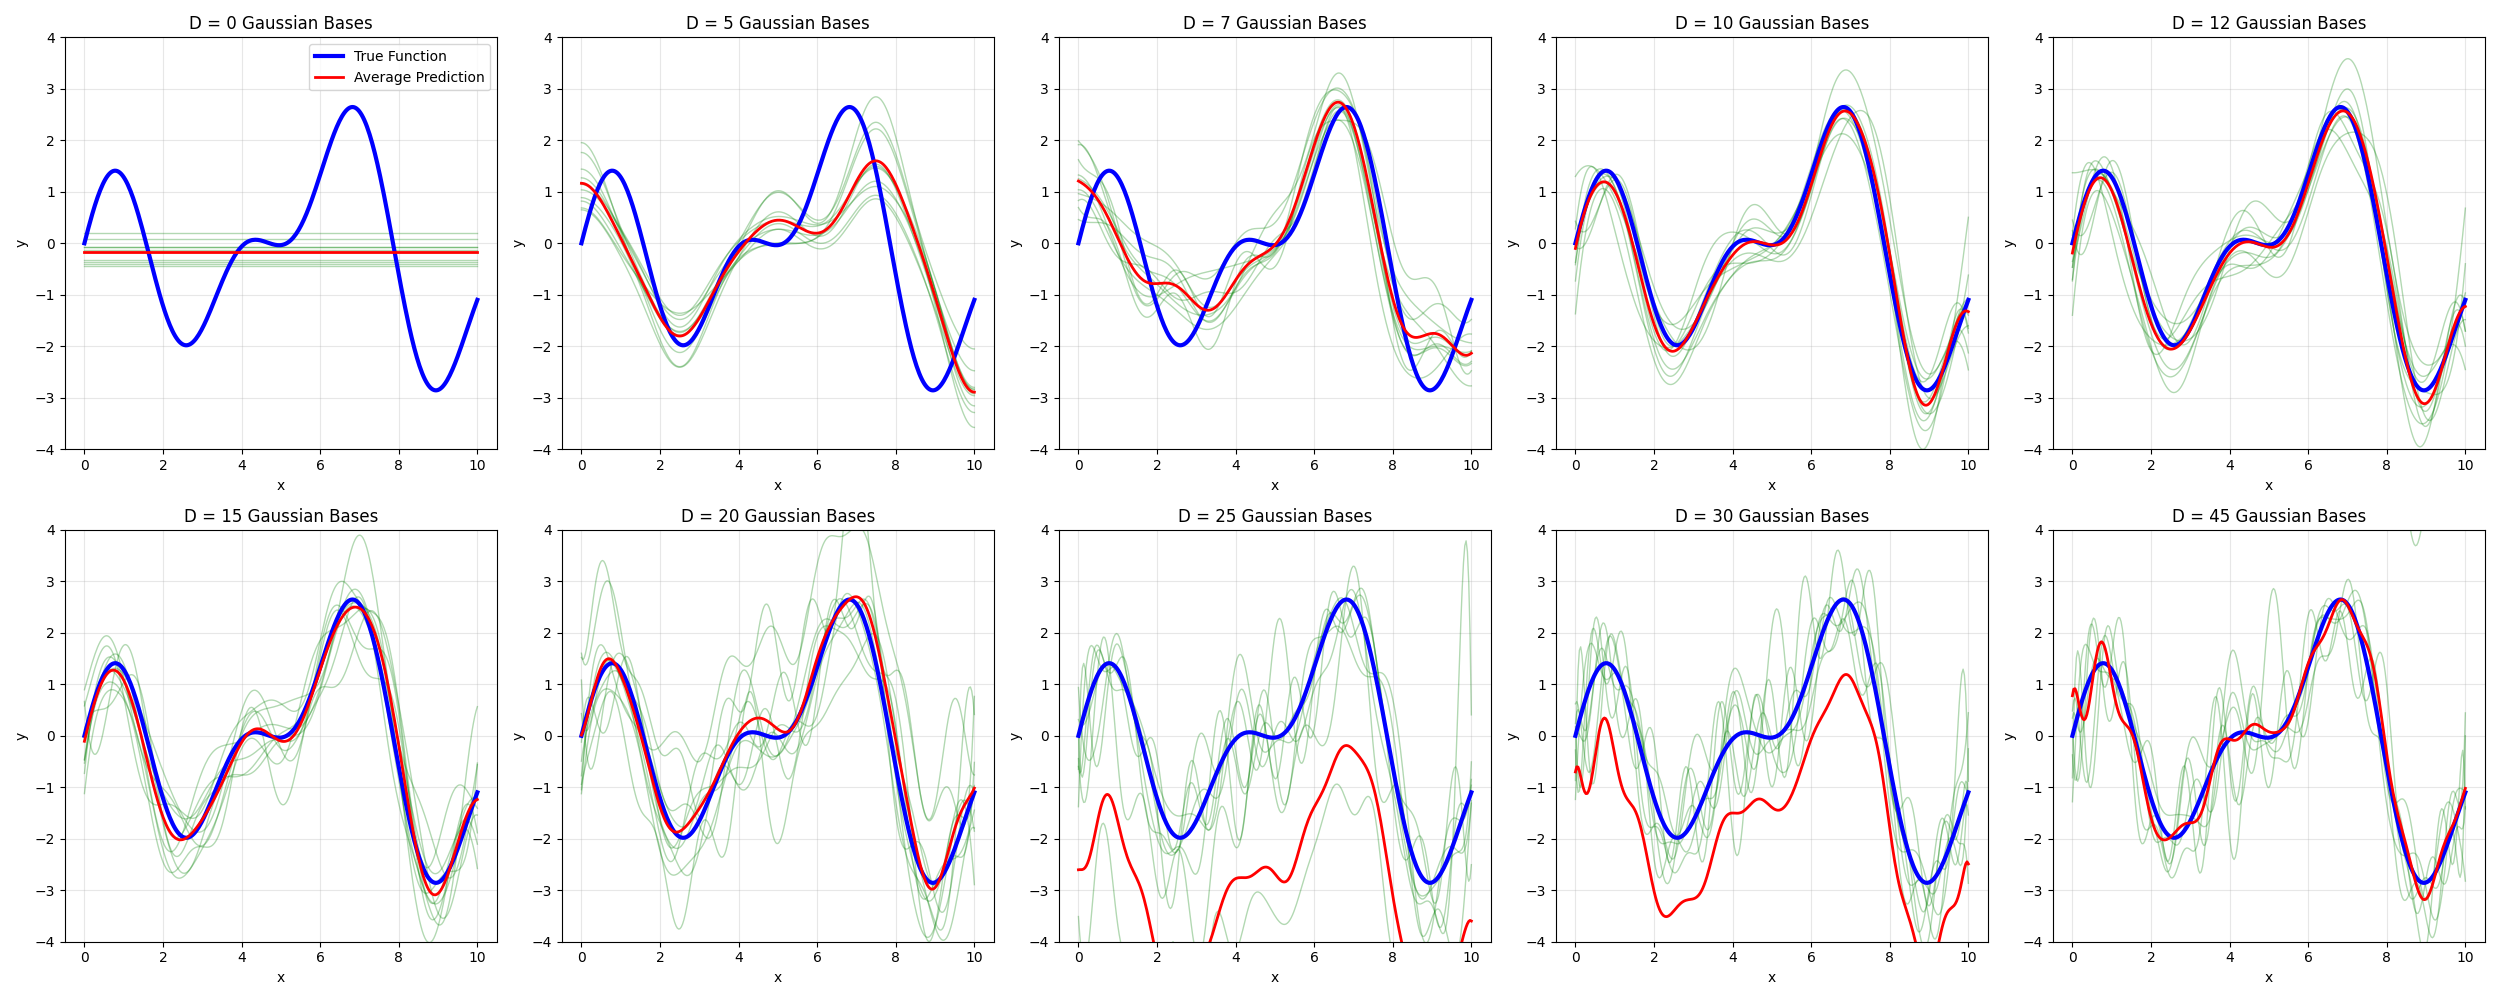
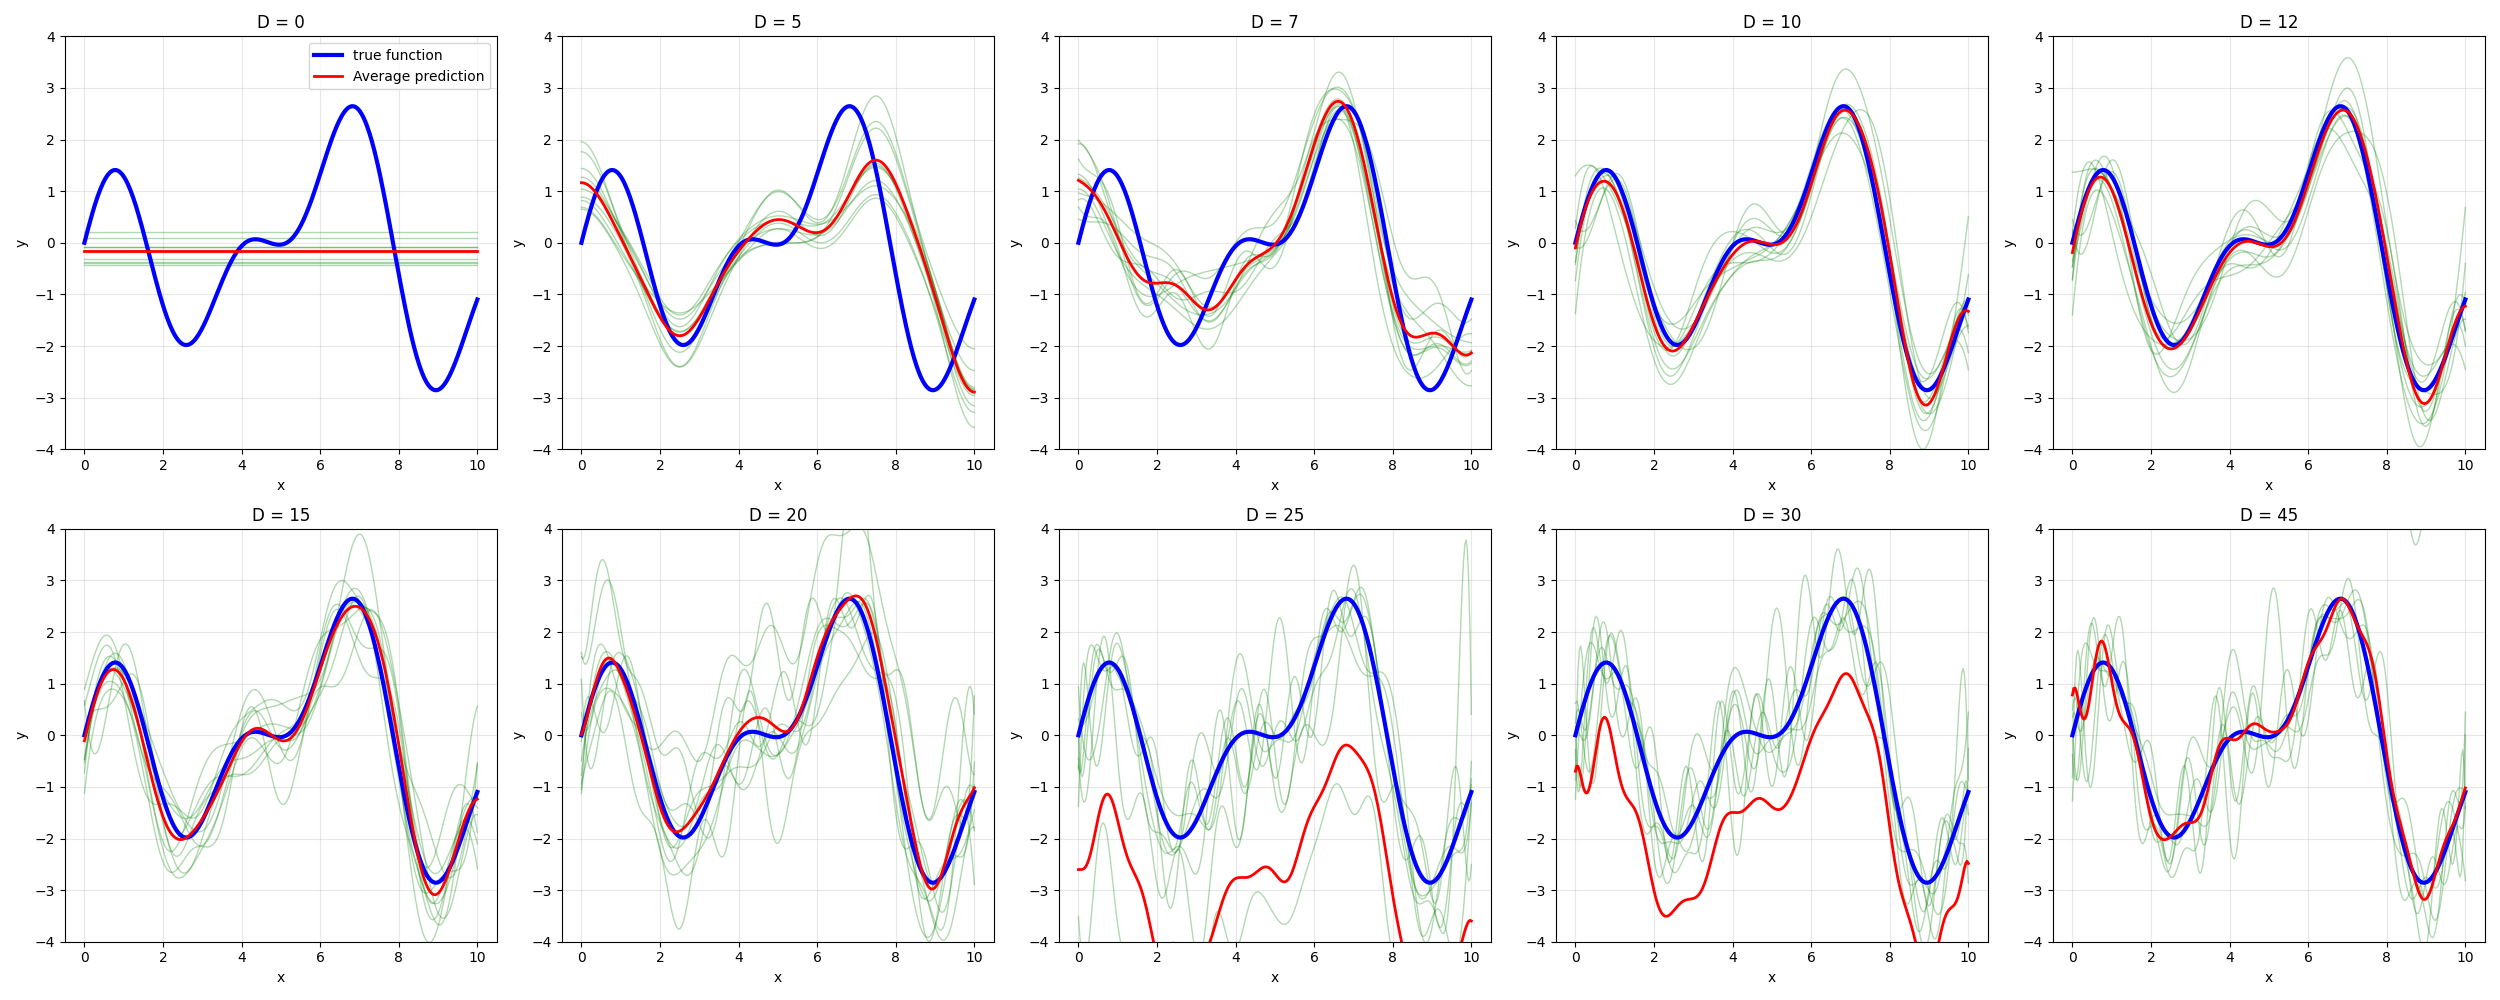
final version

diff --git a/tasks-1-&-2.py b/tasks-1-&-2.py
@@ -8,6 +8,14 @@ warnings.filterwarnings('ignore')
 np.random.seed(2)
 
 #__________________________________________________________________________________
+def true_function(x):
+    #return (np.sin(x) + 0.5 * np.cos(3*x) +  0.25 * np.sin(7*x))
+    #return np.exp(-0.1 * (x - 5)**2) * np.sin(4 * x)
+    #return np.piecewise(x,[x < 4, x >= 4], [lambda x: np.sin(2*x), lambda x: 0.5 * x-3]) 
+    return np.log(x + 1) * np.cos(x) + np.sin(2*x)
+    
+    
+    
 #Task 1
 #1.1
 def generate_data(n_samples=100, noise_std=1.0):
@@ -16,7 +24,8 @@ def generate_data(n_samples=100, noise_std=1.0):
     x = np.linspace(0, 10, n_samples)
     
     #y values without noise
-    y_clean = np.log(x + 1) * np.cos(x) + np.sin(2*x)
+    #y_clean = np.log(x + 1) * np.cos(x) + np.sin(2*x)
+    y_clean = true_function(x)
     
     #noise
     noise = np.random.normal(0, noise_std, n_samples)
@@ -28,11 +37,12 @@ def generate_data(n_samples=100, noise_std=1.0):
 x, y_clean, y_noisy = generate_data(100)
 
 # Plot clean and noisy data
-plt.plot(x, y_clean, 'b-', label='Clean Data', linewidth=2)
-plt.plot(x, y_noisy, 'ro', label='Noisy Data', alpha=0.6, markersize=4)
+plt.figure(figsize=(12, 3))
+plt.plot(x, y_clean, 'b-', label='clean data', linewidth=2)
+plt.plot(x, y_noisy, 'ro', label='noisy data', alpha=0.6, markersize=4)
 plt.xlabel('x')
 plt.ylabel('y')
-plt.title('Clean vs Noisy Data')
+plt.title('Clean vs noisy data')
 plt.legend()
 plt.grid(True, alpha=0.3)
 plt.savefig('results/task1-data-generation.png')
@@ -82,9 +92,9 @@ for i, D in enumerate(D_values_to_plot, 1):
         phi = gaussian_basis(x_plot, mu)
         plt.plot(x_plot, phi, alpha=0.7)
     
-    plt.title(f'Gaussian Basis Functions (D={D})')
+    plt.title(f'Gaussian basis functions (D={D})')
     plt.xlabel('x')
-    plt.ylabel(r'$\phi(x)$')
+    plt.ylabel('$\phi(x)$')
     plt.grid(True, alpha=0.3)
 
 plt.tight_layout()
@@ -119,10 +129,8 @@ class GaussianRegression:
         
         return yh
     
-    
 
-def true_function(x):
-    return np.log(x + 1) * np.cos(x) + np.sin(2*x)
+
 
 # fit models with different numbers of basis functions and plot
 D_values = [0, 5, 10, 13, 15, 17, 20, 25, 30, 45]
@@ -142,19 +150,20 @@ for i, D in enumerate(D_values):
     y_hat = y_hat.flatten() if y_hat.ndim > 1 else y_hat
     
     # Plot
-    plt.plot(x_plot, true_function(x_plot), 'b-', label='True Function', linewidth=2, alpha=0.7)
-    plt.plot(x, y_noisy, 'ro', label='Noisy Data', alpha=0.4, markersize=3)
+    plt.plot(x_plot, true_function(x_plot), 'b-', label='True function', linewidth=2, alpha=0.7)
+    plt.plot(x, y_noisy, 'ro', label='Noisy data', alpha=0.4, markersize=3)
     plt.plot(x_plot, y_hat, 'g-', label=f'Fitted (D={D})', linewidth=2)
     
-    plt.ylim(-6, 6)
+    plt.ylim(-4.2, 4.2)
     plt.title(f'D = {D}')
     plt.grid(True, alpha=0.3)
-    plt.legend(fontsize=8)
+    if D == 0:
+        plt.legend(fontsize=8)
 
     # x and y labels
-    if i % 3 == 0:  
+    if i % 5 == 0:  
         plt.ylabel('y')
-    if i >= 9:  
+    if i >= 5:  
         plt.xlabel('x')
 
 plt.tight_layout()
@@ -201,14 +210,14 @@ print(f"Optimal D on single split = {optimal_D}")
 
 
 # Plot training and validation SSE vs D for this single split
-plt.figure(figsize=(12, 6))
+plt.figure(figsize=(12, 3))
 plt.plot(D_values, train_sse, 'b-', label='Train SSE', linewidth=2, marker='o', markersize=4)
 plt.plot(D_values, val_sse, 'r-', label='Validation SSE', linewidth=2, marker='s', markersize=4)
 plt.axvline(x=optimal_D, color='g', linestyle='--', label=f'Optimal D = {optimal_D}')
 #plt.scatter([optimal_D], [val_sse[optimal_D]], label=f"Opt D = {optimal_D}", zorder=5)
-plt.xlabel('Number of Gaussian bases (D)')
+plt.xlabel('Number of gaussian bases (D)')
 plt.ylabel('Sum of Squared Errors (SSE)')
-plt.title('Train and Validation SSE vs D (single split)')
+plt.title('Train and validation SSE vs D (single split)')
 plt.legend()
 plt.grid(True, alpha=0.3)
 plt.yscale('log') 
@@ -216,18 +225,19 @@ plt.savefig('results/task1-model-selection-single-split.png')
 
 
 # plot optimal model fit
-plt.figure(figsize=(10, 4))
+plt.figure(figsize=(10, 3))
 optimal_model = GaussianRegression(sigma=1.0)
 yh_opt = optimal_model.fit(x_train, y_train, optimal_D)
 yh_opt = optimal_model.predict(x_plot)
 
-plt.plot(x_plot, true_function(x_plot), 'b-', label='True Function', linewidth=2)
-plt.plot(x_train, y_train, 'bo', label='Training Data', alpha=0.6, markersize=4)
-plt.plot(x_val, y_val, 'ro', label='Validation Data', alpha=0.6, markersize=4)
+plt.plot(x_plot, true_function(x_plot), 'b-', label='true function', linewidth=2)
+plt.plot(x_train, y_train, 'bo', label='Training data', alpha=0.6, markersize=4)
+plt.plot(x_val, y_val, 'ro', label='validation data', alpha=0.6, markersize=4)
 plt.plot(x_plot, yh_opt, 'g-', label=f'Optimal Model (D={optimal_D})', linewidth=2)
-plt.ylim(-6, 6)
-plt.title(f'Optimal Model with {optimal_D} Gaussian Basis Functions')
+plt.ylim(-5, 5)
+plt.title(f'Optimal model with {optimal_D} gaussian basis functions')
 plt.ylabel('y')
+plt.xlabel('x')
 plt.legend()
 plt.grid(True, alpha=0.3)
 
@@ -256,7 +266,15 @@ for rep in range(n_repetitions):
 
     for D_i, D in enumerate(D_values):
         # fit model
-        model = GaussianRegression(sigma=1.0)
+        '''
+        if D > 10:
+            sigma = (x.max() - x.min()) / D
+        else: 
+            sigma = 1
+        '''
+        sigma = 1
+        model = GaussianRegression(sigma)
+        #model = GaussianRegression(sigma=1.0)
         model.fit(x_train, y_train, D) 
 
         # predict on both sets 
@@ -288,7 +306,7 @@ for D_i, D in enumerate(D_values):
             ax.plot(x, predictions[rep, D_i, :], color='green', alpha=0.3, linewidth=1)
     
     # plot true function
-    ax.plot(x, true_function(x), 'b-', linewidth=3, label='True Function')
+    ax.plot(x, true_function(x), 'b-', linewidth=3, label='true function')
     
     #plot average prediction
     valid_predictions = [predictions[rep, D_i, :] 
@@ -297,9 +315,9 @@ for D_i, D in enumerate(D_values):
     
     if valid_predictions:
         avg_prediction = np.mean(valid_predictions, axis=0)
-        ax.plot(x, avg_prediction, 'r-', linewidth=2, label='Average Prediction')
+        ax.plot(x, avg_prediction, 'r-', linewidth=2, label='Average prediction')
     
-    ax.set_title(f'D = {D} Gaussian Bases')
+    ax.set_title(f'D = {D}')
     ax.set_xlabel('x')
     ax.set_ylabel('y')
     ax.set_ylim(-4, 4)
@@ -309,13 +327,11 @@ for D_i, D in enumerate(D_values):
         ax.legend()
 
 plt.tight_layout()
-plt.suptitle('Bias-Variance tradeoff with 10 different fits', 
-             fontsize=16, y=1.02)
+plt.suptitle('Bias-Variance tradeoff with 10 different fits', fontsize=16, y=1.02)
 plt.savefig('results/task2-plotting-multiple-fits.png')
 
-
 # Plot 2: average training and test errors
-plt.figure(figsize=(12, 6))
+plt.figure(figsize=(12, 4))
 
 # Compute mean and std
 avg_train_errors = np.mean(train_errs, axis=0)
@@ -328,36 +344,11 @@ std_test_errors = np.std(test_errs, axis=0)
 plt.errorbar(D_values, avg_train_errors, yerr=std_train_errors, label='Average Training Error', marker='o', capsize=5, linewidth=2)
 plt.errorbar(D_values, avg_test_errors, yerr=std_test_errors, label='Average Test Error', marker='s', capsize=5, linewidth=2)
 
-plt.xlabel('Number of Gaussian Basis Functions (D)')
+plt.xlabel('number of gaussian basis functions (D)')
 plt.ylabel('Mean Squared Error')
-plt.title('Average Training and Test Errors Across 10 Repetitions')
+plt.title('Average training and test errors across 10 repetitions')
 plt.legend()
 plt.grid(True, alpha=0.3)
 plt.yscale('log')
 plt.xticks(D_values)
 plt.savefig('results/task2-plotting-train-and-test-errors.png')
-
-
-
-
-
-
-
-
-
-
-
-
-
-
-
-
-
-
-
-
-
-
-
-
-
